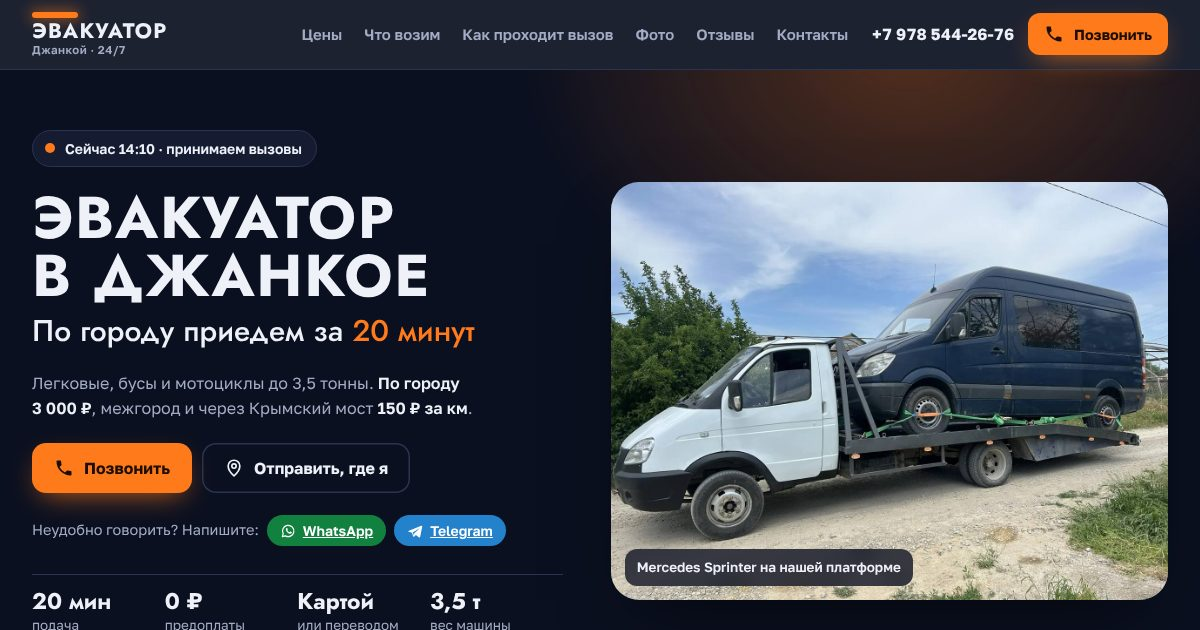
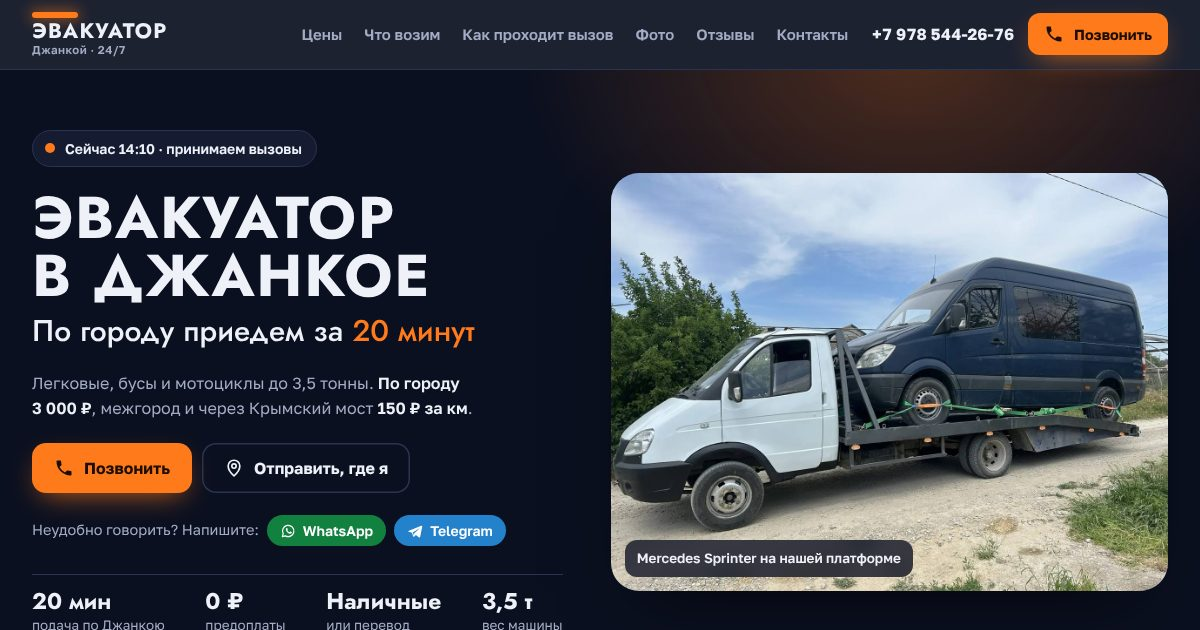
Эвакуатор Джанкой: оплата наличными или переводом
Картой у водителя оплатить нельзя, поэтому на сайте, в описании для
поиска, разметке schema.org и карточке контакта теперь «наличными или
переводом». В первом экране строка фактов подстраивается под ширину слов.

Claude-Session: https://claude.ai/code/session_01MqcZMEsGfdXL5kVsRGZSN2

diff --git a/evakuator-dzhankoy/index.html b/evakuator-dzhankoy/index.html
@@ -3,7 +3,7 @@
 <head>
 <meta charset="utf-8">
 <meta name="viewport" content="width=device-width,initial-scale=1,viewport-fit=cover">
-<meta name="description" content="Эвакуатор в Джанкое круглосуточно. По городу 3 000 ₽, межгород по Крыму и через Крымский мост 150 ₽ за км. Легковые, бусы, мотоциклы до 3,5 т. Подача по городу около 20 минут, без предоплаты, оплата картой.">
+<meta name="description" content="Эвакуатор в Джанкое круглосуточно. По городу 3 000 ₽, межгород по Крыму и через Крымский мост 150 ₽ за км. Легковые, бусы, мотоциклы до 3,5 т. Подача по городу около 20 минут, без предоплаты, оплата наличными или переводом.">
 <meta name="theme-color" content="#0B1020">
 <link rel="canonical" href="https://mmaemi77-ctrl.github.io/Prototipfly/evakuator-dzhankoy/">
 <link rel="icon" href="favicon.svg" type="image/svg+xml">
@@ -12,13 +12,13 @@
 <meta property="og:locale" content="ru_RU">
 <meta property="og:url" content="https://mmaemi77-ctrl.github.io/Prototipfly/evakuator-dzhankoy/">
 <meta property="og:title" content="Эвакуатор в Джанкое круглосуточно">
-<meta property="og:description" content="По городу 3 000 ₽, межгород и через мост 150 ₽ за км. Без предоплаты, оплата картой.">
+<meta property="og:description" content="По городу 3 000 ₽, межгород и через мост 150 ₽ за км. Без предоплаты, наличными или переводом.">
 <meta property="og:image" content="https://mmaemi77-ctrl.github.io/Prototipfly/evakuator-dzhankoy/og-glavnyi.jpg">
 <meta property="og:image:width" content="1200">
 <meta property="og:image:height" content="630">
 <meta name="twitter:card" content="summary_large_image">
 <script type="application/ld+json">
-{"@context":"https://schema.org","@type":"AutomotiveBusiness","name":"Эвакуатор Джанкой","description":"Эвакуатор круглосуточно: легковые, бусы, мотоциклы до 3,5 т. По городу 3000 ₽, межгород и через Крымский мост 150 ₽ за км.","url":"https://mmaemi77-ctrl.github.io/Prototipfly/evakuator-dzhankoy/","image":"https://mmaemi77-ctrl.github.io/Prototipfly/evakuator-dzhankoy/og-glavnyi.jpg","telephone":["+79785442676","+79783189613"],"address":{"@type":"PostalAddress","addressLocality":"Джанкой","addressRegion":"Республика Крым","addressCountry":"RU"},"areaServed":["Джанкой","Республика Крым"],"openingHoursSpecification":{"@type":"OpeningHoursSpecification","dayOfWeek":["Monday","Tuesday","Wednesday","Thursday","Friday","Saturday","Sunday"],"opens":"00:00","closes":"23:59"},"priceRange":"3000 ₽ по городу, 150 ₽/км межгород","paymentAccepted":"Банковская карта, перевод"}
+{"@context":"https://schema.org","@type":"AutomotiveBusiness","name":"Эвакуатор Джанкой","description":"Эвакуатор круглосуточно: легковые, бусы, мотоциклы до 3,5 т. По городу 3000 ₽, межгород и через Крымский мост 150 ₽ за км.","url":"https://mmaemi77-ctrl.github.io/Prototipfly/evakuator-dzhankoy/","image":"https://mmaemi77-ctrl.github.io/Prototipfly/evakuator-dzhankoy/og-glavnyi.jpg","telephone":["+79785442676","+79783189613"],"address":{"@type":"PostalAddress","addressLocality":"Джанкой","addressRegion":"Республика Крым","addressCountry":"RU"},"areaServed":["Джанкой","Республика Крым"],"openingHoursSpecification":{"@type":"OpeningHoursSpecification","dayOfWeek":["Monday","Tuesday","Wednesday","Thursday","Friday","Saturday","Sunday"],"opens":"00:00","closes":"23:59"},"priceRange":"3000 ₽ по городу, 150 ₽/км межгород","paymentAccepted":"Наличные, перевод"}
 </script>
 <style>:root{color-scheme:light;box-sizing:border-box;padding-top:env(safe-area-inset-top,0px);padding-bottom:env(safe-area-inset-bottom,0px)}html{scroll-padding-top:env(safe-area-inset-top,0px)}body{margin:0;padding:0;font:14px -apple-system,BlinkMacSystemFont,sans-serif}img{max-width:100%}[hidden]:not([hidden=until-found i]){display:none!important}</style>
 <title>Эвакуатор в Джанкое круглосуточно · 3 000 ₽ по городу</title>
@@ -117,8 +117,8 @@ h1{display:grid;gap:10px}
 .chip-btn svg{width:16px;height:16px}
 .chip-btn.wa{background:var(--wa)}
 .chip-btn.tg{background:var(--tg)}
-.facts{display:grid;grid-template-columns:repeat(4,minmax(0,1fr));gap:0;margin:6px 0 0;border-top:1px solid var(--night-line)}
-.facts div{padding:14px 12px 0 0;display:grid;gap:2px;align-content:start}
+.facts{display:grid;grid-template-columns:repeat(4,max-content);justify-content:space-between;column-gap:18px;margin:6px 0 0;border-top:1px solid var(--night-line)}
+.facts div{padding:14px 0 0;display:grid;gap:2px;align-content:start}
 .facts dt{font-family:var(--display);font-weight:700;font-size:clamp(20px,1.9vw,26px);line-height:1.1;white-space:nowrap}
 .facts dd{margin:0;font-size:13.5px;line-height:1.35;color:var(--night-muted)}
 @media (max-width:560px){.facts{grid-template-columns:repeat(2,minmax(0,1fr));row-gap:12px}}
@@ -318,7 +318,7 @@ footer .wrap{display:flex;flex-wrap:wrap;justify-content:space-between;align-ite
         <dl class="facts">
           <div><dt>20&nbsp;мин</dt><dd>подача по&nbsp;Джанкою</dd></div>
           <div><dt>0&nbsp;₽</dt><dd>предоплаты</dd></div>
-          <div><dt>Картой</dt><dd>или переводом</dd></div>
+          <div><dt>Наличные</dt><dd>или перевод</dd></div>
           <div><dt>3,5&nbsp;т</dt><dd>вес машины</dd></div>
         </dl>
       </div>
@@ -331,7 +331,7 @@ footer .wrap{display:flex;flex-wrap:wrap;justify-content:space-between;align-ite
 
   <section class="block" id="cena">
     <div class="wrap">
-      <div class="sec-head"><span class="eyebrow">Цены</span><h2>Сумму видно до&nbsp;звонка</h2><p>Две цены на&nbsp;всё. Предоплату не&nbsp;берём, оплатить можно картой или переводом.</p></div>
+      <div class="sec-head"><span class="eyebrow">Цены</span><h2>Сумму видно до&nbsp;звонка</h2><p>Две цены на&nbsp;всё. Предоплату не&nbsp;берём, оплатить можно наличными или переводом.</p></div>
       <div class="price-grid">
         <div class="tariffs">
         <article class="tariff city">
@@ -407,7 +407,7 @@ footer .wrap{display:flex;flex-wrap:wrap;justify-content:space-between;align-ite
           <div><h3>Срочный выезд</h3><p>Берём вызов сразу, без записи на&nbsp;завтра.</p></div>
           <div><h3>20&nbsp;минут по&nbsp;Джанкою</h3><p>Столько обычно занимает дорога до&nbsp;вас.</p></div>
           <div><h3>Без предоплаты</h3><p>Ничего не&nbsp;нужно переводить, пока машина не&nbsp;на&nbsp;платформе.</p></div>
-          <div><h3>Картой или переводом</h3><p>Ночью не&nbsp;придётся искать банкомат.</p></div>
+          <div><h3>Наличными или переводом</h3><p>Нет наличных, переведёте с&nbsp;телефона.</p></div>
           <div><h3>Круглосуточно</h3><p>Можно звонить и&nbsp;в&nbsp;три часа ночи.</p></div>
           <div><h3>Межгород и&nbsp;через мост</h3><p>По&nbsp;Крыму и&nbsp;на&nbsp;материк, 150&nbsp;₽ за&nbsp;км.</p></div>
         </div>
@@ -423,7 +423,7 @@ footer .wrap{display:flex;flex-wrap:wrap;justify-content:space-between;align-ite
         <li><h3>Называем цену</h3><p>По&nbsp;городу 3&nbsp;000&nbsp;₽, за&nbsp;городом 150&nbsp;₽ за&nbsp;км.</p></li>
         <li><h3>Выезжаем из&nbsp;Джанкоя</h3><p>По&nbsp;городу будем примерно через 20&nbsp;минут.</p></li>
         <li><h3>Грузим и&nbsp;крепим</h3><p>Ремни на&nbsp;колёса, и&nbsp;едем куда скажете.</p></li>
-        <li><h3>Оплата на&nbsp;месте</h3><p>Картой или переводом, без предоплаты.</p></li>
+        <li><h3>Оплата на&nbsp;месте</h3><p>Наличными или переводом, без предоплаты.</p></li>
       </ol>
     </div>
   </section>
@@ -463,7 +463,7 @@ footer .wrap{display:flex;flex-wrap:wrap;justify-content:space-between;align-ite
       <div class="faq">
         <details open><summary>Сколько ждать эвакуатор?</summary><p>По&nbsp;Джанкою обычно около 20&nbsp;минут. За&nbsp;городом время зависит от&nbsp;расстояния, его скажем по&nbsp;телефону.</p></details>
         <details><summary>Нужна предоплата?</summary><p>Нет. Деньги вперёд не&nbsp;берём.</p></details>
-        <details><summary>Можно оплатить картой?</summary><p>Да, картой или переводом.</p></details>
+        <details><summary>Как оплатить?</summary><p>Наличными или переводом, предоплату не&nbsp;берём. Картой через терминал оплатить нельзя.</p></details>
         <details><summary>Повезёте бус или мотоцикл?</summary><p>Да. Легковые, бусы, минивэны и&nbsp;мотоциклы, всё, что весит до&nbsp;3,5&nbsp;тонны.</p></details>
         <details><summary>Ездите через Крымский мост?</summary><p>Да, возим по&nbsp;Крыму и&nbsp;на&nbsp;материк. За&nbsp;городом считаем 150&nbsp;₽ за&nbsp;километр.</p></details>
         <details><summary>Работаете ночью?</summary><p>Да, круглосуточно. Звоните в&nbsp;любое время.</p></details>
